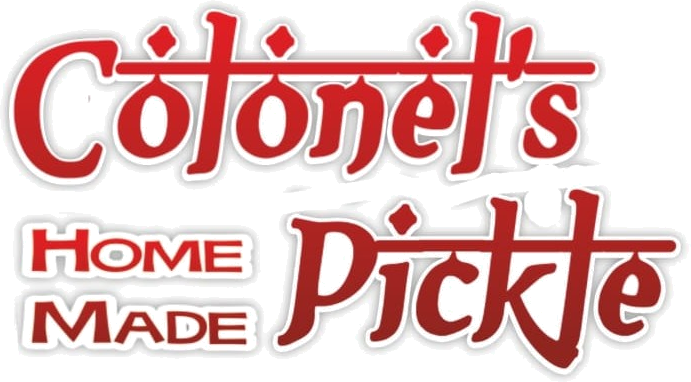
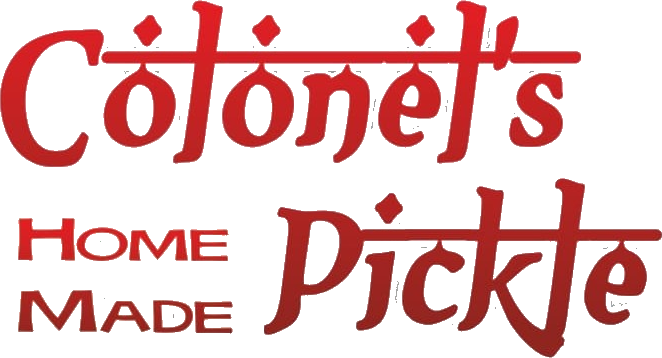
feat: crisp navbar wordmark + immersive full-height hero
- Wordmark asset: knock out the white sticker-outline AND grey drop-shadow (not just pure white) so the mark is clean red lettering with no halo on cream; seat it on a light plaque wherever it sits on a dark surface (footer, mobile hero badge)
- Header: smaller, tighter, balanced crest+wordmark+tagline lockup (dropped the divider); corrected wordmark dimensions
- Hero (desktop): full-viewport-height band, banner maximised via object-contain (no crop, no scroll), blurred+dimmed copy of the banner fills the letterbox margins instead of flat beige

Claude-Session: https://claude.ai/code/session_01D3BLF3WAtPFjAYjprtj41j

diff --git a/src/components/home/HeroSection.tsx b/src/components/home/HeroSection.tsx
@@ -124,12 +124,26 @@ export async function HeroSection() {
         <Link
           href="/products"
           aria-label="Shop Colonel's Pickle achaars"
-          className="group flex items-center justify-center overflow-hidden"
+          className="group relative flex h-[calc(100svh-81px)] w-full items-center justify-center overflow-hidden"
         >
-          {/* Constrain by viewport height (minus the 81px sticky header) so the
-              full banner — including its baked-in trust row + CTA — is visible on
-              load without scrolling. Width auto-letterboxes into the matching
-              beige section background when height is the limiting dimension. */}
+          {/* Immersive backdrop: the same banner blown up, blurred and dimmed,
+              fills the full viewport height so any side letterboxing reads as a
+              soft extension of the artwork instead of flat empty margin. */}
+          <Image
+            src="/hero/hero-banner-1.jpg"
+            alt=""
+            aria-hidden
+            fill
+            priority
+            sizes="100vw"
+            className="scale-125 object-cover blur-2xl brightness-[0.92] saturate-[1.15]"
+          />
+          <span
+            className="pointer-events-none absolute inset-0 bg-cp-beige/25"
+            aria-hidden="true"
+          />
+          {/* Sharp banner, maximised within the band with no crop and no scroll
+              (object-contain picks whichever of width/height is limiting). */}
           <Image
             src="/hero/hero-banner-1.jpg"
             alt="Colonel's Pickle homemade Indian achaar — maa ka pyaar, ghar ka achar. No vinegar, no artificial preservatives, natural ingredients, loved by families."
@@ -137,7 +151,7 @@ export async function HeroSection() {
             height={941}
             priority
             sizes="100vw"
-            className="mx-auto block h-auto max-h-[calc(100svh-81px)] w-auto max-w-full transition-transform duration-700 ease-out group-hover:scale-[1.015]"
+            className="relative z-10 h-full w-full object-contain drop-shadow-[0_18px_50px_rgba(0,0,0,0.35)] transition-transform duration-700 ease-out group-hover:scale-[1.01]"
           />
         </Link>
       </section>
@@ -256,16 +270,19 @@ export async function HeroSection() {
               aria-hidden="true"
             />
             <div className="hidden sm:block">
-              {/* Registered trademark wordmark (image), separate from the crest logo */}
-              <Image
-                src="/images/brand/colonels-pickle-wordmark.png"
-                alt="Colonel's Pickle® — homemade Indian pickles"
-                width={691}
-                height={382}
-                className="h-[44px] w-auto drop-shadow-[0_1px_4px_rgba(0,0,0,0.5)]"
-                priority
-              />
-              <p className="mt-1 font-hindi text-[11px] tracking-[0.2em] text-cp-gold-light">
+              {/* Registered trademark wordmark on a light plaque so the red
+                  lettering stays legible against the dark olive hero. */}
+              <span className="inline-flex w-fit items-center rounded-lg bg-cp-cream-muted/95 px-3 py-1.5 shadow-[0_4px_14px_rgba(0,0,0,0.35)] ring-1 ring-black/10">
+                <Image
+                  src="/images/brand/colonels-pickle-wordmark.png"
+                  alt="Colonel's Pickle® — homemade Indian pickles"
+                  width={662}
+                  height={358}
+                  className="h-[38px] w-auto"
+                  priority
+                />
+              </span>
+              <p className="mt-1.5 font-hindi text-[11px] tracking-[0.2em] text-cp-gold-light">
                 MAA KA PYAAR, GHAR KA ACHAR
               </p>
             </div>

diff --git a/src/components/layout/Header.tsx b/src/components/layout/Header.tsx
@@ -158,13 +158,13 @@ export function Header() {
           {/* ── CENTER: Logo + brand text ── */}
           <Link
             href="/"
-            className="group flex items-center justify-self-center gap-3 leading-none"
+            className="group flex items-center justify-self-center gap-2.5 leading-none"
             aria-label="Colonel's Pickle — Home"
           >
             <span
               className={cn(
                 "hidden shrink-0 items-center justify-center overflow-hidden rounded-full border border-cp-gold/50 bg-white shadow-sm transition-transform duration-300 group-hover:scale-105 lg:flex",
-                scrolled ? "h-[52px] w-[52px]" : "h-[68px] w-[68px]"
+                scrolled ? "h-[46px] w-[46px]" : "h-[58px] w-[58px]"
               )}
             >
               <Image
@@ -191,28 +191,23 @@ export function Header() {
               <Image
                 src="/images/brand/colonels-pickle-wordmark.png"
                 alt="Colonel's Pickle® — homemade Indian pickles"
-                width={691}
-                height={382}
-                className="hidden h-[25px] w-auto min-[380px]:block"
+                width={662}
+                height={358}
+                className="hidden h-[24px] w-auto min-[380px]:block"
                 priority
               />
             </span>
-
-            <span
-              className="hidden h-10 w-px bg-gradient-to-b from-transparent via-cp-border to-transparent lg:block"
-              aria-hidden="true"
-            />
 
             <span className="hidden flex-col leading-tight lg:flex">
               {/* Registered trademark wordmark (image), shown separately from the crest logo */}
               <Image
                 src="/images/brand/colonels-pickle-wordmark.png"
                 alt="Colonel's Pickle® — homemade Indian pickles"
-                width={691}
-                height={382}
+                width={662}
+                height={358}
                 className={cn(
                   "w-auto transition-[height] duration-300",
-                  scrolled ? "h-[40px]" : "h-[46px]"
+                  scrolled ? "h-[34px]" : "h-[38px]"
                 )}
                 priority
               />

diff --git a/scripts/build-brand-assets.ts b/scripts/build-brand-assets.ts
@@ -40,6 +40,31 @@ async function whiteToTransparent(
   return sharp(out, { raw: { width, height, channels } }).png().toBuffer();
 }
 
+/**
+ * Knock out every light / low-saturation pixel to transparent — removes the
+ * white background, the white sticker-outline AND the grey drop-shadow smudge
+ * baked into the wordmark artwork, leaving only the saturated red lettering.
+ * A pixel is dropped when its darkest channel is bright (min(R,G,B) >= floor),
+ * which is true for white and every shade of grey but never for the red glyphs
+ * (their green/blue channels stay low). This is what kills the "dirty halo".
+ */
+async function lightAndGreyToTransparent(
+  input: string | Buffer,
+  floor = 168
+): Promise<Buffer> {
+  const { data, info } = await sharp(input)
+    .ensureAlpha()
+    .raw()
+    .toBuffer({ resolveWithObject: true });
+  const { width, height, channels } = info;
+  const out = Buffer.from(data);
+  for (let i = 0; i < out.length; i += channels) {
+    const min = Math.min(out[i], out[i + 1], out[i + 2]);
+    if (min >= floor) out[i + 3] = 0;
+  }
+  return sharp(out, { raw: { width, height, channels } }).png().toBuffer();
+}
+
 const TRANSPARENT = { r: 0, g: 0, b: 0, alpha: 0 };
 
 async function buildCrest(): Promise<string> {
@@ -62,10 +87,12 @@ async function buildCrest(): Promise<string> {
 
 async function buildWordmark(): Promise<string> {
   // colonels-pickle-logo-plain.jpeg is the red "Colonel's Home Made Pickle"
-  // wordmark on white. Key the white out and trim so it sits on any background.
-  const keyed = await whiteToTransparent(
+  // wordmark on white, with a white sticker-outline and a grey drop-shadow baked
+  // in. Drop every light/grey pixel (not just pure white) so neither the outline
+  // nor the shadow survives as a halo — leaving only the clean red lettering.
+  const keyed = await lightAndGreyToTransparent(
     P('public/images/brand/colonels-pickle-logo-plain.jpeg'),
-    246
+    168
   );
   const out = P('public/images/brand/colonels-pickle-wordmark.png');
   await sharp(keyed)

diff --git a/src/components/layout/Footer.tsx b/src/components/layout/Footer.tsx
@@ -82,15 +82,14 @@ export function Footer() {
                   className="h-[92%] w-[92%] object-contain"
                 />
               </Link>
-              {/* Registered trademark wordmark on a light plaque so its baked-in
-                  white sticker-outline reads intentionally against the dark bg
-                  instead of fringing/haloing. */}
+              {/* Registered trademark wordmark on a light plaque so the red
+                  lettering keeps strong contrast against the dark footer. */}
               <span className="mt-4 inline-flex w-fit items-center rounded-xl bg-cp-cream-muted/95 px-4 py-3 shadow-[0_4px_14px_rgba(0,0,0,0.25)] ring-1 ring-black/5">
                 <Image
                   src="/images/brand/colonels-pickle-wordmark.png"
                   alt="Colonel's Pickle® — homemade Indian pickles"
-                  width={691}
-                  height={382}
+                  width={662}
+                  height={358}
                   className="h-auto w-[168px]"
                 />
               </span>
